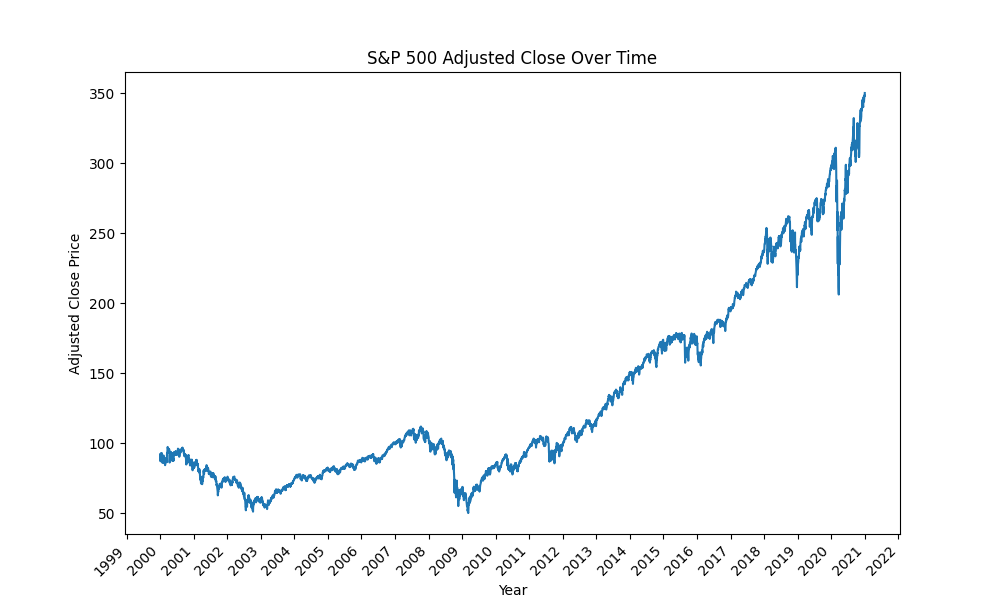
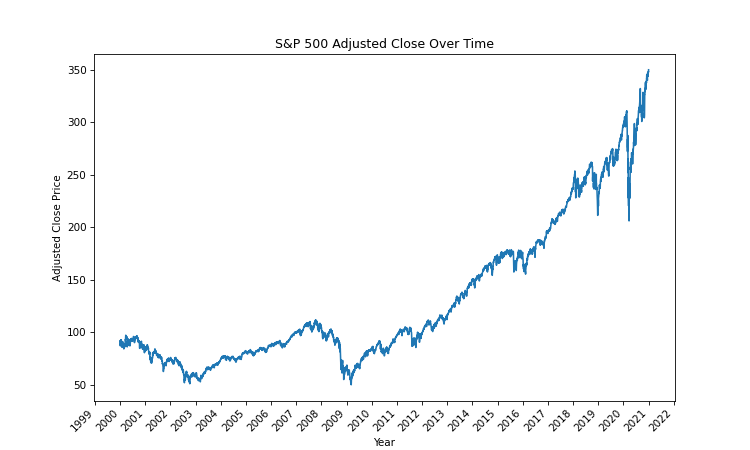
UPDATED TRADE\mypandas.py FIXED COMMENTING STARTED EXERCISE

diff --git a/mypandas.py b/mypandas.py
@@ -21,7 +21,6 @@ import yfinance as yf
 # MULTIPLE ROW COMMENTS
 """
 
-"""
 # MATH
 ## 1+1=2, 1-3=-2, 1*3=6, 1/2=0.5, 2**4=16, 4%2=0, 5%2=1, 2+3*5+5=22, (2+3)*(5+5)=50
 
@@ -30,7 +29,7 @@ import yfinance as yf
 
 # STRINGS
 ## 'single', "double", "I don't care"
-
+"""
 # PRINT
 x = "hello"
 print(x)
@@ -109,11 +108,10 @@ out = [1, 4, 9, 16]
 # FUNCTIONS
 def my_func():
     print('hello')
-def my_func2(param='default'):
-    # triple quotes
+def my_func2(param='default'): 
     #Docstring goes here between triple quotes! 
-    # triple quotes
-my_func(param)
+    
+my_func()
 # python3 my_func() # would print doc info and then the word default    
 def my_func3(argument):
     return argument*5 
@@ -347,8 +345,8 @@ print(sales_q2,'\n')
 print('Sales q1 Japan:', sales_q1['Japan'])
 print('Sales.q1.keys()', sales_q1.keys()) # Index(['Japan', 'China', ' India', 'USA'], dtype='object')
 print('Sales.q1 * 2, can do +,/\n', sales_q1 * 2)
-print('sales_q1.add(sales_q2,fill_value=0), aligns by index, add fill value if values don\'t match up\n'/
-, sales_q1.add(sales_q2,fill_value=0),)
+print('sales_q1.add(sales_q2,fill_value=0), aligns by index, add fill value if values don\'t match up')
+sales_q1.add(sales_q2,fill_value=0)
 print('sales_q1.dtype', sales_q1.dtype)
 
 #### DATAFRAME 
@@ -419,13 +417,10 @@ print('SLICE DATA\ndfcvs.iloc[0:4]\n')
 # COULD DO dfcvs.loc[\'Sun2959\']: OR dfcvs.loc[['Sun2959','Sun5260']] FOR MULTIPLE ROWS
 print('REMOVING ROWS,dfcvs.drop(\'Sun2959\', axis=0)') # axis=0 is rows, axis=1 is columns
 print('PERMANENTLY DROP First 3 WOULD BE, dfcvs = dfcvs.iloc[3:3]') # DROP FIRST 3 ROWS AND KEEP REST)
-print('ADDING A ROW = SAY WE ADD A ROW one_row = dfcvs.iloc[0], dfcvs.append(one_row), /
-PERMANENT = dfcvs = dfcvs.append(one_row)')
+print('ADDING A ROW = SAY WE ADD A ROW one_row = dfcvs.iloc[0], dfcvs.append(one_row), PERMANENT = dfcvs = dfcvs.append(one_row)')
 a_row = dfcvs.iloc[0]
 print('added',a_row)
-"""
 
-"""
 # TYPICALLY IN DATA ANALYSIS OUR DATASETS ARE LARGE ENOUGH WE DON'T FILTER BASED ON POSITION, USE CONDITION
 # CONDITIONAL FILTERING ALLOWS US TO SELECT ROWS BASED A CONDITION ON A COLUMN
 
@@ -441,9 +436,10 @@ print('\ndf2[df2["Population"] > 50]:\n',df2[df2['Population'] > 50],) # RETURNS
 # FILTERING WITH (MULTIPLE) CONDITIONS
 dftips = pd.read_csv('tips.csv')
 print('\nREAD HEAD OF TIPS DataFrame\n', dftips.head())
-print('\nFILTER TIPS SERIES WHERE TOTAL BILL > 50\n', dftips[dftips['total_bill'] > 50])
-print('\nFILTER TIPS SERIES WHERE TOTAL BILL > 22 AND DAY IS FRI\n', /
- dftips[(dftips['total_bill'] > 22) & (dftips['day'] == 'Fri')])
+print('\nFILTER TIPS SERIES WHERE TOTAL BILL > 50\n')
+dftips[dftips['total_bill'] > 50]
+print('\nFILTER TIPS SERIES WHERE TOTAL BILL > 22 AND DAY IS FRI\n')
+dftips[(dftips['total_bill'] > 22) & (dftips['day'] == 'Fri')]
 # print(dftips.columns)
 options = ['Sat', 'Sun']
 dftips['day'].isin(options) # Will print 0   True...
@@ -452,8 +448,7 @@ dftips['day'].isin(options) # Will print 0   True...
 print('\nUSEFUL METHODS:\napply()\n')
 print('EX. 1 dftips.head()\n',dftips.head())
 print('GRAB LAST 4 DIGIST OF CC#\n',dftips['CC Number'].apply(lambda x: str(x)[-4:]),'\n')
-print('CREATE A CUSTOM FUNCTION GRAB LAST FOUR and apply it to a /
-column\ndef grab_last_four(num):\n return str(num)[-4:]\n')
+print('CREATE A CUSTOM FUNCTION GRAB LAST FOUR and apply it to a column\ndef grab_last_four(num):\n return str(num)[-4:]\n')
 print('def grab_last_four(num):')
 print('    return str(num)[-4:]\n') 
 def grab_last_four(num):
@@ -475,8 +470,8 @@ print(dftips.head())
 print('APPLY MULTIPLE FUNCTIONS ON MULTIPLE COLUMNS')
 print('EXAMPLE LAMBDA FUNCTION, SUPPOSE WE HAD\n def simple(num):\n return num * 2\n')
 print('LAMBDA FUNCTION WOULD BE\n lambda num: num *2')
-print('dftips[\'TOTAL_BILL,tip\'].apply(lambda num: num * 2)\n', /
-dftips[['total_bill','tip']].apply(lambda num: num * 2),'\n')
+print('dftips[\'TOTAL_BILL,tip\'].apply(lambda num: num * 2)\n')
+dftips[['total_bill','tip']].apply(lambda num: num * 2)
 def Quality(total_bill,tip):
     if tip / total_bill >= 0.25:
         return 'Generous'
@@ -484,24 +479,21 @@ def Quality(total_bill,tip):
         return 'Average'
     else:
         return 'Cheap'
-print('dftips[[\'total_bill\', \'tip\']]/
-.apply(lambda dftips: Quality(dftips[\'total_bill\'], dftips[\'tip\']), axis=1)\n')
-dftips['Quality']=dftips[['total_bill', 'tip']]/
-.apply(lambda dftips: Quality(dftips['total_bill'], dftips['tip']), axis=1)
+print('dftips[[\'total_bill\', \'tip\']].apply(lambda dftips: Quality(dftips[\'total_bill\'], dftips[\'tip\']), axis=1)\n')
+dftips['Quality']=dftips[['total_bill', 'tip']].apply(lambda dftips: Quality(dftips['total_bill'], dftips['tip']), axis=1)
 print(dftips['Quality'])
-print('\nHAVE IT RUN FASTER WITH VECTORIZE - df[\'Quality\'] = /
-np.vectorize(Quality)(dftips[\'total_bill\'], dftips[\'tip\'])')
+print('\nHAVE IT RUN FASTER WITH VECTORIZE - df[\'Quality\'] = np.vectorize(Quality)(dftips[\'total_bill\'], dftips[\'tip\'])')
 
 # NP VECTORIZE TRANSFORMS FUNTION THAT ARE NOT NUMPY AWARE 
 dftips['Quality'] = np.vectorize(Quality)(dftips['total_bill'], dftips['tip'])
 print(dftips.head())
 # dftips['Quality'] = dftips['total_bill', 'tip'].apply(Quality)
+"""
 
 # TIMELY CODE STARTS HERE AFTER ADDING TRIPLE QUOTES
 # TIMING CODE WITH TIMEIT - NOTE TRIPLE QUOTES BELOW ARE NEEDED FOR TIMELY CODE TO WORK/
 # SO PLACE 3 QUOTES BEFORE THIS LINE
 # TIMELY CODE TO BE EXECUTED ONCE FOR TIMELY
-"""
 pdtimely = '''
 import numpy as np
 import pandas as pd
@@ -628,12 +620,12 @@ mergedR = pd.merge(left=registrations,right=logins,how='right',on='name')
 print(mergedR)
 
 # PANDAS IO - CVS
-# import pandas as pd
-# import os
-# os.getcwd()
-# dfsomecvs = pd.read_csv('example.csv', header=None) # Sets A B C D as a row entry 0 a b c d
-# dfsomecvs = pd.read_csv('example.csv', index_col=0) # Sets a as index
-# dfsinecvs.to_csv('somefilename_or_filepath_+filename, index=false)
+import pandas as pd
+import os
+os.getcwd()
+dfsomecvs = pd.read_csv('example.csv', header=None) # Sets A B C D as a row entry 0 a b c d
+dfsomecvs = pd.read_csv('example.csv', index_col=0) # Sets a as index
+#dfsomecvs.to_csv('somefilename_or_filepath_+filename, index=false)
 
 # PANDAS IO - HTML (pip install lxml) (can also copy source file)
 # import pandas as pd
@@ -803,7 +795,7 @@ axes2.set_title('ZOOMED IN 1 TO 2')
 plt.show()
 xnparr = np.arange(0,10) # spaced out by 1
 print("\nxnparr = np.arange(0,10):", xnparr) 
-pri
+
 
 # MATPLOTLIB - FIGURE PARAMETERS
 a = np.linspace(0,10,11) # 11 linearly spaced points between 0-10
@@ -931,7 +923,7 @@ ax.set_xlabel('x')
 ax.set_ylabel('y')
 plt.show()
 # Adjustments
-fig.subplots_adjust(left=0.15, right=.9, bottom=0.1, top=0.0) 
+fig.subplots_adjust(left=0.15, right=.9, bottom=0.1, top=0.2) 
 # Restore defaults
 ##matplotlib.rcParams['xtick.major.pad'] = 3
 ##matplotlib.rcParams['ytick.major.pad'] = 3
@@ -1112,7 +1104,7 @@ plt.xlabel('X axis')
 plt.ylabel('Y axis')
 ###vmin=abs(Z).min(). vmax=abs(Z.max(),
 
-## MATHPLOTLIB - EXERCISES 
+## MATHPLOTLIB - EXERCISES ########################################################################
 ## TASK 1
 # 1. CREATING DATA FROM AN EQUATION
 # E = mc(squared) 
@@ -1376,12 +1368,12 @@ plt.figure(dpi=100)
 print('aticks = cost_fb[\'Close\'][\'2018-01-01\':\'2018-03-01\'].plot():')
 aticks = cost_fb['Close']['2018-01-01':'2018-03-01'].plot()
 print('\naticks.xaxis.set_major_locator(dates.WeekdayLocator())') # Can specify Weekday
-aticks.xaxis.set_major_locator(dates.WeekdayLocator()) # Can be MonthlyLocator, etc.
-aticks.xaxis.set_major_locator(dates.YearLocator())
-aticks.xaxis.set_major_locator(dates.MonthLocator())
+aticks.xaxis.set_major_locator(mdates.WeekdayLocator()) # Can be MonthlyLocator, etc.
+aticks.xaxis.set_major_locator(mdates.YearLocator())
+aticks.xaxis.set_major_locator(mdates.MonthLocator())
 plt.show()
 # FORMATTER
-aticks.xaxis.set_major_formatter(dates.DateFormatter('%Y-%B'))
+aticks.xaxis.set_major_formatter(mdates.DateFormatter('%Y-%B'))
 plt.show()
 
 
@@ -1398,10 +1390,10 @@ vtsd = cost_vd['Close']['2018-01-01':'2020-01-01']
 print('\nplt.figure(figsize=(8,4),dpi=100)',plt.figure(figsize=(9,6),dpi=60))
 print('\nvts = vtsd[\'Close\'][\'2018-01-01\':\'2020-01-01\'].plot()\n')
 atx = cost_vd['Close']['2018-01-01':'2020-01-01'].plot()
-atx.xaxis.set_major_locator(dates.YearLocator())
-atx.xaxis.set_major_formatter(dates.DateFormatter('%Y,   %B'))
-atx.xaxis.set_minor_locator(dates.MonthLocator())
-atx.xaxis.set_minor_formatter(dates.DateFormatter('%B'))
+atx.xaxis.set_major_locator(mdates.YearLocator())
+atx.xaxis.set_major_formatter(mdates.DateFormatter('%Y,   %B'))
+atx.xaxis.set_minor_locator(mdates.MonthLocator())
+atx.xaxis.set_minor_formatter(mdates.DateFormatter('%B'))
 atx.tick_params(axis='x',which='minor',rotation=90)
 atx.tick_params(axis='x',which='major',rotation=90)
 atx.yaxis.grid(True)
@@ -1510,15 +1502,17 @@ print('apple_ticker.get_balance_sheet()',apple_ticker.get_balance_sheet())
 
 # PANDAS AND FINANCE EXERCISE
 # TASK 1 Import neccessary files 
+print(' GIVEN DATASET SP500 https://finance.yahoo.com/quote/SPY')
 # GIVEN DATASET SP500 https://finance.yahoo.com/quote/SPY
 # import numpy as np
 # import pandas as pd
 # import matplotlib.pyplot as plt
 # import yfinance as yf
 # from matplotlib import dates
+
 # TASK 2 Grab the SPY historical data from Jan-1-2000 to Jan-1-2021
 print('\nPANDAS AND FINANCES EXERCISE')
-print('1. IMPORT NECCESSARY FILES')
+print('TASK 1. IMPORT NECCESSARY FILES')
 finex = 'PWQuantConnect/05-Pandas-and-Finance/SPY2000_2021.csv'
 try:
     finex = pd.read_csv(finex,index_col='Date',parse_dates=True)
@@ -1526,31 +1520,34 @@ except FileNotFoundError:
     print(f"Error: The file '{finex} was not found.")
 except Exception as e:
     print(f"An error occured: {e}")
-print('2. Grab the SPY historical data from Jan-1-2000 to Jan-1-2021 FROM YAHOO FINANCE')
+print('TASK 2. Grab the SPY historical data from Jan-1-2000 to Jan-1-2021 FROM YAHOO FINANCE')
 print('finex = yf.download(\'SPY\', start=\'2000-01-01\', end=\'2021-01-01\', auto_adjust=False)')
 finex = yf.download('SPY', start='2000-01-01', end='2021-01-01', auto_adjust=False)
 print(finex)
+
 # TASK 3 Check the head of the ten first entires in the dataset
-print('\n3. Check the head of the ten first entires in the dataset')
-print('finex.head(10)')
-print(finex.head(10))
-# TAKS 4 Check the datatype of all entires
-print('\n4. Check the datatype of all entires')
-print('finex.dtypes')
-print(finex.dtypes) # also finex.info()
+print('\nTASK 3. Check the head of the ten first entires in the dataset')
+print('finex.head(10):')
+finex.head(10)
+
+# TASK 4 Check the datatype of all entires
+print('\nTASK 4. Check the datatype of all entires')
+print('finex.dtypes:')
+finex.dtypes # also finex.info()
+
 # TASK 5 Plot the Adj Closing price of the SP500, with the price on the y axis
 # and the year on the x axis. Use Locator() and Formatter() so you can see a tick 
 # for every year in the dataset(only showing the year numb er, not the full YYYY-MM-DD)
 # Choose a resonable fig size, Set the dpi to 300 and save as sp500.png
 # from matplotlib import dates
-print('\n5. Plot the Adj Closing price of the SP500, with the price on the y axis\n\
+print('\nTASK 5. Plot the Adj Closing price of the SP500, with the price on the y axis\n\
 and the year on the x axis. Use Locator() and Formatter() so you can see a tick\n\
 for every year in the dataset (only showing the year number, not the full YYYY-MM-DD)\n\
-Choose a reasonable fig size, Set the dpi to 300 and save as sp500.png\n')
+Choose a reasonable fig size, Set the dpi to 300 and save as sp500.png')
 # from matplotlib import dates 
 # Create the figure and axes with specified size and dpi print('plt.figure(figsize=(10,4),dpi=100')
 #plt.figure(figsize=(20,4),dpi=200)
-fig, ax = plt.subplots(figsize=(10,6), dpi=100)
+fig, ax = plt.subplots(figsize=(10,6), dpi=75)
 #print('ax = finex[\'Adj Close\'].plot()')
 #ax = finex['Adj Close'].plot()
 print('ax.plot(finex.index, finex[\'Adj Close\'], label=\'SPY Adj Close\')')
@@ -1559,35 +1556,42 @@ print('ax.xaxis.set_major_locator(dates.YearLocator()):')
 ax.xaxis.set_major_locator(mdates.YearLocator())
 print('ax.xaxis.set_major_formatter(dates.DateFormatter(\'%Y\')):')
 ax.xaxis.set_major_formatter(mdates.DateFormatter('%Y'))
-print('\nOptionally, format minor ticks or rotate labels for better readability,\nplt.xticks(rotation=45, ha=\'right\'')
+print('Optionally, format minor ticks or rotate labels for better readability,\nplt.xticks(rotation=45, ha=\'right\'')
 plt.xticks(rotation=45, ha='right')
-print('\nAdd labels and title if needed,plt.xlabel(\'Year\'),plt.ylabel(\'Adjusted Close Price\',plt.title(...\'')
+print('Add labels and title if needed,plt.xlabel(\'Year\'),plt.ylabel(\'Adjusted Close Price\',plt.title(...\'')
 plt.xlabel('Year')
 plt.ylabel('Adjusted Close Price')
 plt.title('S&P 500 Adjusted Close Over Time')
-print('\nSave Plot = plt.savefig(\'AdjClosePriceSP500.png\')') # SAVE BEFORE plt.show()
+print('Save Plot = plt.savefig(\'AdjClosePriceSP500.png\')') # SAVE BEFORE plt.show()
 plt.savefig('AdjClosePriceSP500.png')
 plt.show()
-# TASK 6 Create a histogram of the daily volume of shares of SPY traded. Choose a reasonable bin size.
-print('Create a histogram of the daily volume of shares of SPY traded. Choose a reasonable bin size.')
-print('\nfinex[\'Volume\'].plot(kind=\'hist\')',finex['Volume'].plot(kind='hist'))
-print('\nplt.show()', plt.show())
+
+# TASK 6. Create a histogram of the daily volume of shares of SPY traded. Choose a reasonable bin size.
+print('\nTASK 6 Create a histogram of the daily volume of shares of SPY traded. Choose a reasonable bin size.')
+print('finex[\'Volume\'].plot(kind=\'hist\')',finex['Volume'].plot(kind='hist'))
+plt.show()
 # Choose a reasonable bin size
-print('\nfinex[\'Volume\'].hist(bins=50) OR finex[\'Volume\'].plot(kind=\'hist\',bins=50)')
+print('finex[\'Volume\'].hist(bins=50) OR finex[\'Volume\'].plot(kind=\'hist\',bins=50)')
 finex['Volume'].plot(kind='hist',bins=50)
 plt.show()
-# TASK 7 Explore the crash and recovery of 2020/Covid pandemic. Create a line plot of the Adj. Close price
-# from 1-1-2020 to 1-1-2021. The xaxis ticks should be formatted by YYYY-MM
+
+# TASK 7. Explore the crash and recovery of 2020/Covid pandemic. Create a line plot of the Adj. Close price
+print('\nTASK 7 Explore the crash and recovery of 2020/Covid pandemic. Create a line plot of the Adj. Close price')
+print('from 1-1-2020 to 1-1-2021. The xaxis ticks should be formatted by YYYY-MM')
 print('ax = finex[\'Adj Close\'][\'2020-01-01\':\'2021-01-01\'].plot()')
 ax = finex['Adj Close']['2020-01-01':'2021-01-01'].plot()
 print('ax.xaxis.set_major_locator(mdates.MonthLocator()):')
 ax.xaxis.set_major_locator(mdates.MonthLocator())
 plt.show()
-# TASK 8 Create a plot which shows the adj closing price of SPY for the entire length of the time series along
+
+# TASK 8. Create a plot which shows the adj closing price of SPY for the entire length of the time series along
 # with an added trend line of the corresponding 200 days rolling mean of the adj. close price. Add a legend
 # Create one figure/axes and plot both series on it
-fig, ax = plt.subplots(figsize=(12,5), dpi=100)
-print('\nfinex[\'Adj Close\'].plot(ax=ax, label=\'Adj Close\')')
+print('\nTASK 8 Create a plot which shows the adj closing price of SPY for the entire length of the time series along')
+print('with an added trend line of the corresponding 200 days rolling mean of the adj. close price. Add a legend')
+print('Create one figure/axes and plot both series on it')
+fig, ax = plt.subplots(figsize=(12,5), dpi=50)
+print('finex[\'Adj Close\'].plot(ax=ax, label=\'Adj Close\')')
 print('finex[\'Adj Close\'].rolling(200).mean().plot(label=\'200 day MA\')')
 finex['Adj Close'].plot(ax=ax) #, label='Adj Close')
 finex['Adj Close'].rolling(200).mean().plot(ax=ax) #, label='200 day MA')
@@ -1601,5 +1605,49 @@ ax.set_title('SPY Adj Close with 200-day MA')
 ax.set_xlabel('Date')
 ax.set_ylabel('Price')
 fig.tight_layout()
-#plt.legend()
 plt.show()
+
+# TASK 9. If you bought one share at the start of the time series on Jan 1st 2000,
+# how much money would you have gained (in Adj. Close Dollar amount) by Jan 1st 2021?
+print('\nTASK 9: If you bought one share at the start of the time series on Jan 1st 2000\n',
+    'how much money would you have gained (in Adj. Close Dollar amount) by Jan 1st 2021?',sep="")
+print('finex[\'Adj Close\'].iloc[-1] - finex[\'Adj Close\'].iloc[0]:')
+print(finex['Adj Close'].iloc[-1] - finex['Adj Close'].iloc[0])
+print()
+
+# TASKS 10. What was the percent increase in value (based on Adj. Close price)
+# from Jan 1st, 2000 to Jan 1st 2021?
+print('TASKS 10 What was the percent increase in value (based on Adj. Close price),\n'
+       'from Jan 1st, 2000 to Jan 1st 2021?',sep='')
+print('end_price = finex[\'Adj Close\'].iloc[-1]')
+end_price = finex['Adj Close'].iloc[-1]
+print('start_price = finex[\'Adj Close\'].iloc[0]')
+start_price = finex['Adj Close'].iloc[0]
+print('100*(end_price - start_price)/start_price')
+percent_increase = 100*(end_price -start_price)/start_price
+print(percent_increase)
+
+# TASKS 11 Return the 10 dates with the largest gain for the SPY.
+print('\nTASK 11 Return the 10 dates with the largest gain for the SPY.' )
+print('finex[\'Adj Close\'].pct_change(1).sort_values(ascending=False)')
+pct_change_series = finex['Adj Close'].pct_change(1)
+# debug type if needed
+print('pct_change_series type:', type(pct_change_series))
+# If it's a Series use nlargest; if DataFrame sort by first column
+if isinstance(pct_change_series, pd.Series):
+    print('\nTop 10 single-day pct gains (dates and pct):')
+    print(pct_change_series.nlargest(10))
+else:
+    col = pct_change_series.columns[0]
+    print(f'Top 10 single-day pct gains (DataFrame column {col}):')
+    print(pct_change_series.sort_values(by=col, ascending=False).head(10))
+
+# TASK 12 What were the 10 dates with the highest daily percent change from the previous day (either gain OR decrease).
+print('\nTASK 12 What were the 10 dates with the highest daily percent change from the previous day (either gain OR decrease).?')
+print('finex[\'Adj Close\'].pct_change(1).abs().sort_values(by=col, ascending=False).head(10)')
+print(finex['Adj Close'].pct_change(1).abs().sort_values(by=col, ascending=False).head(10))
+
+
+# TASK 13 For each year in the dataset, find the Maximum Adj. Close price that SPU reached for that year.
+print('\nTASK 13 For each year in the dataset, find the Maximum Adj. Close price that SPU reached for that year.')
+
